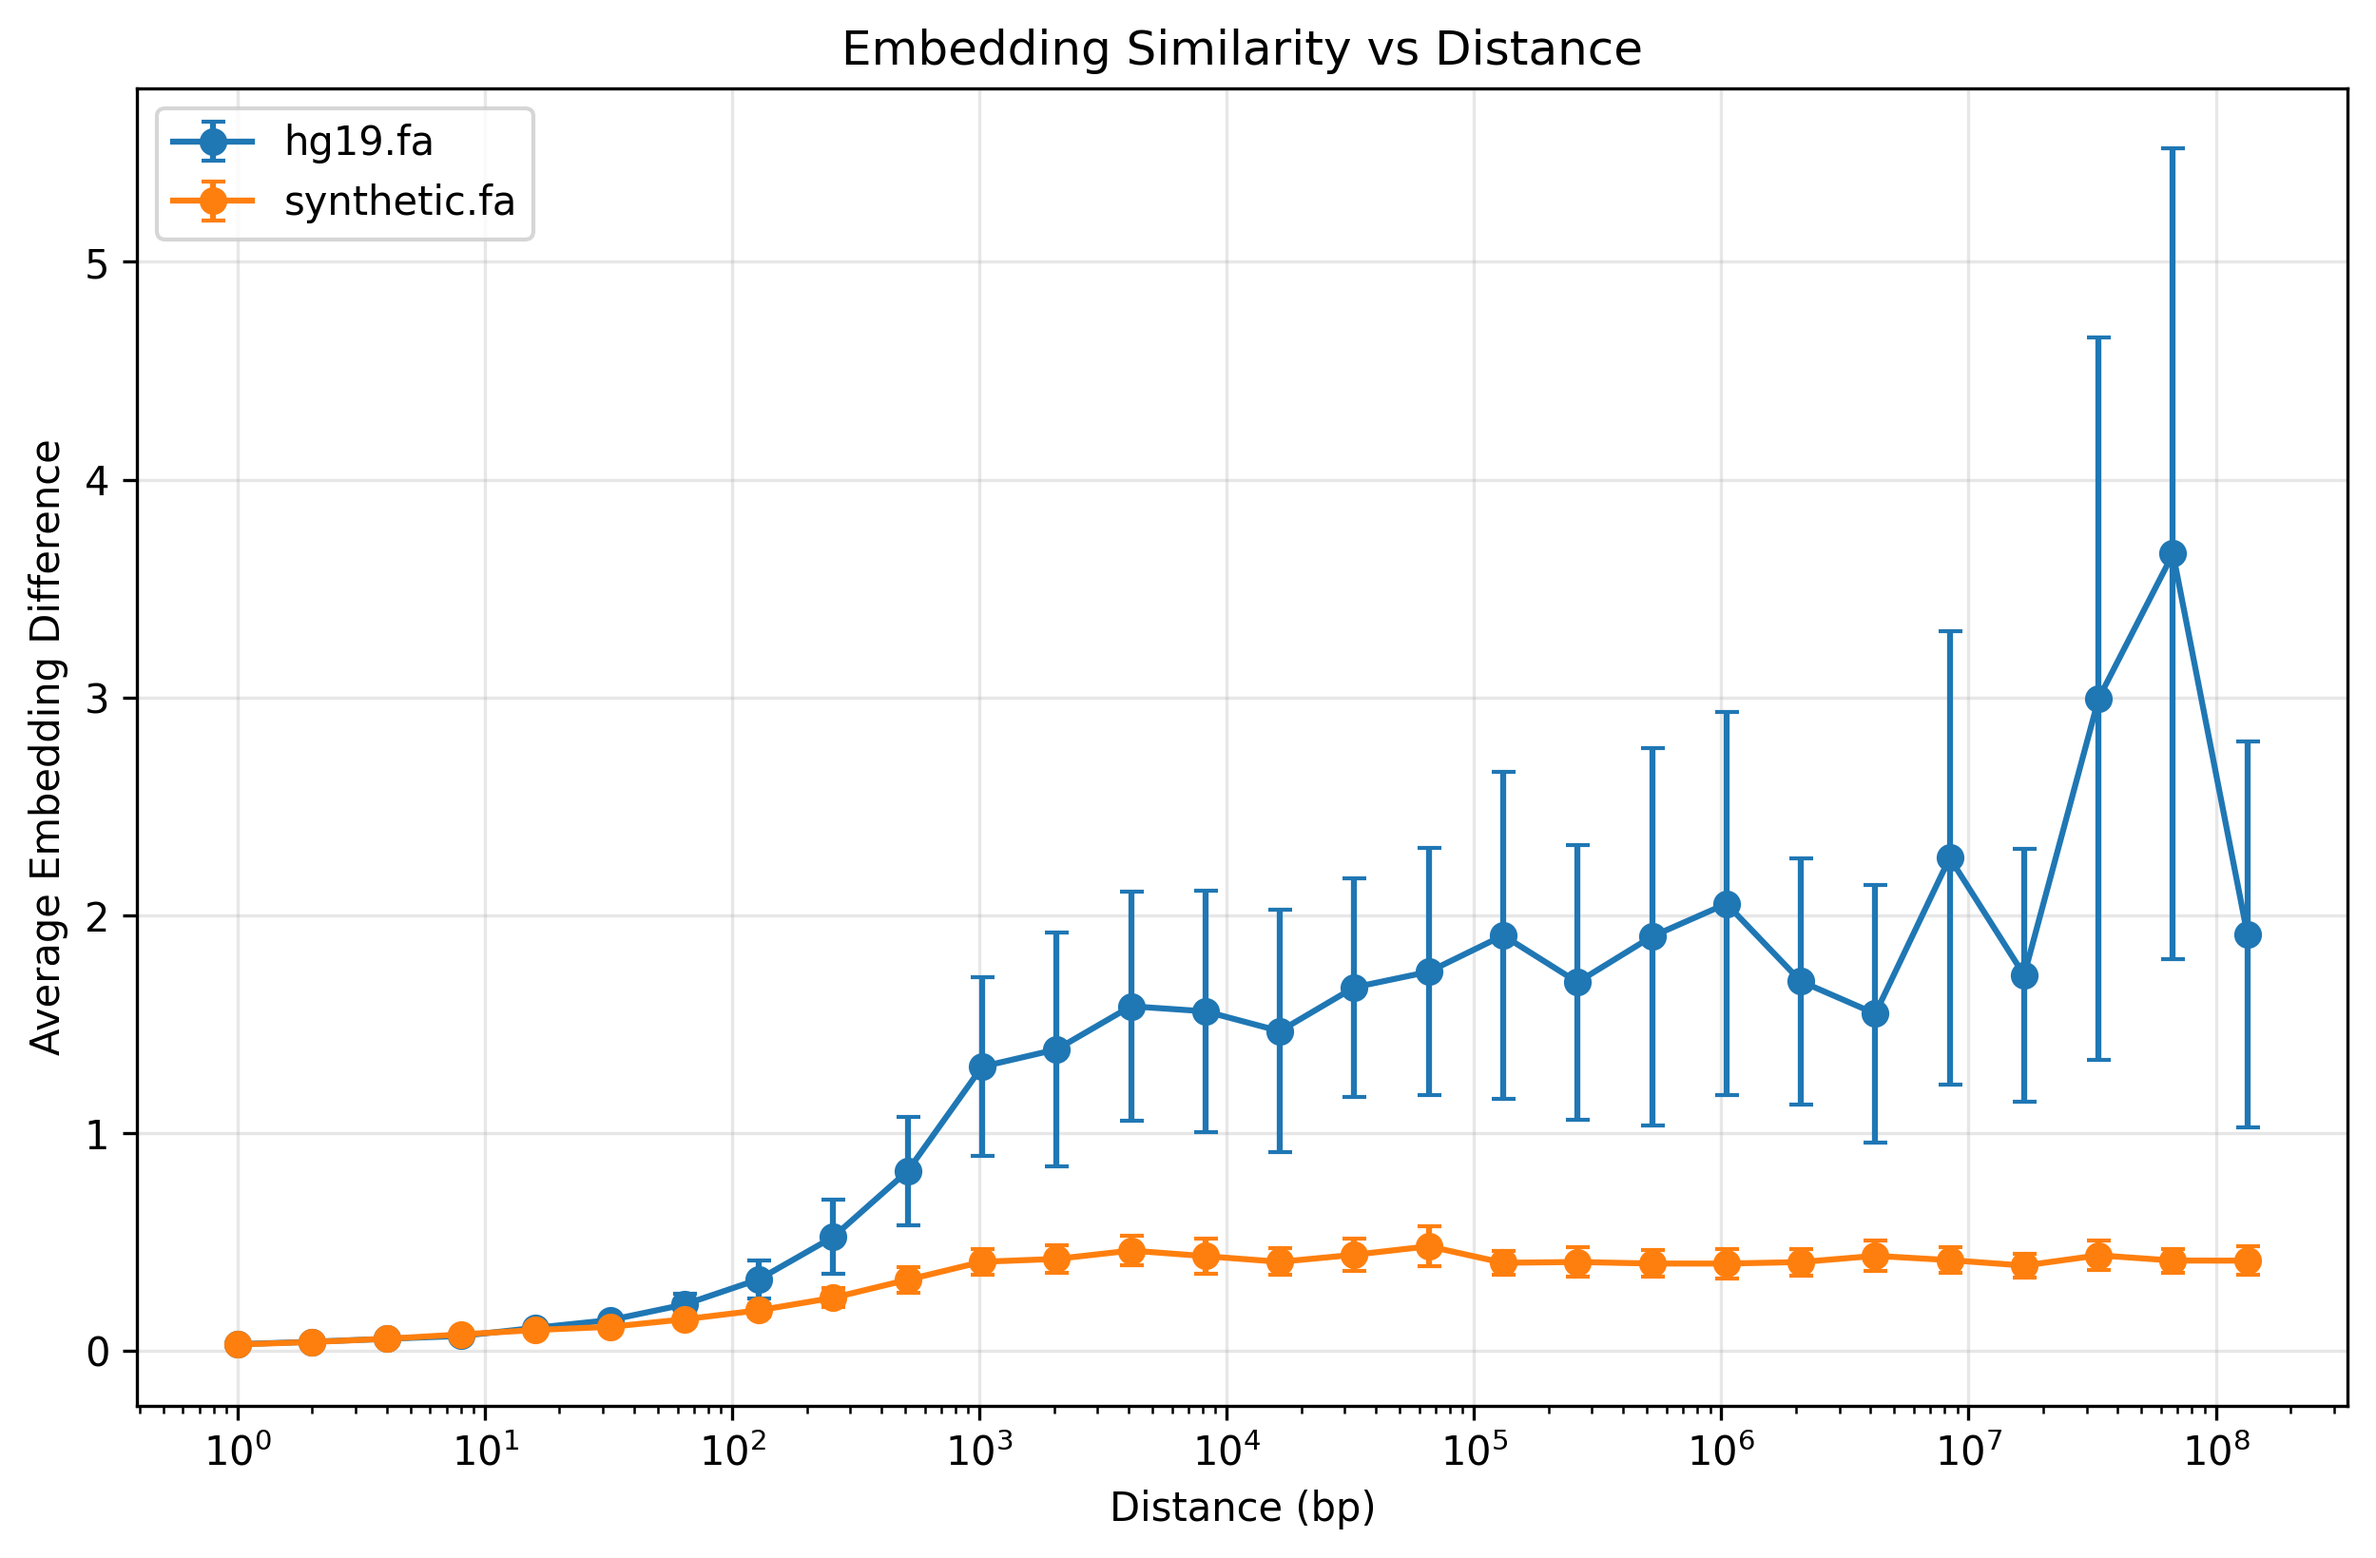
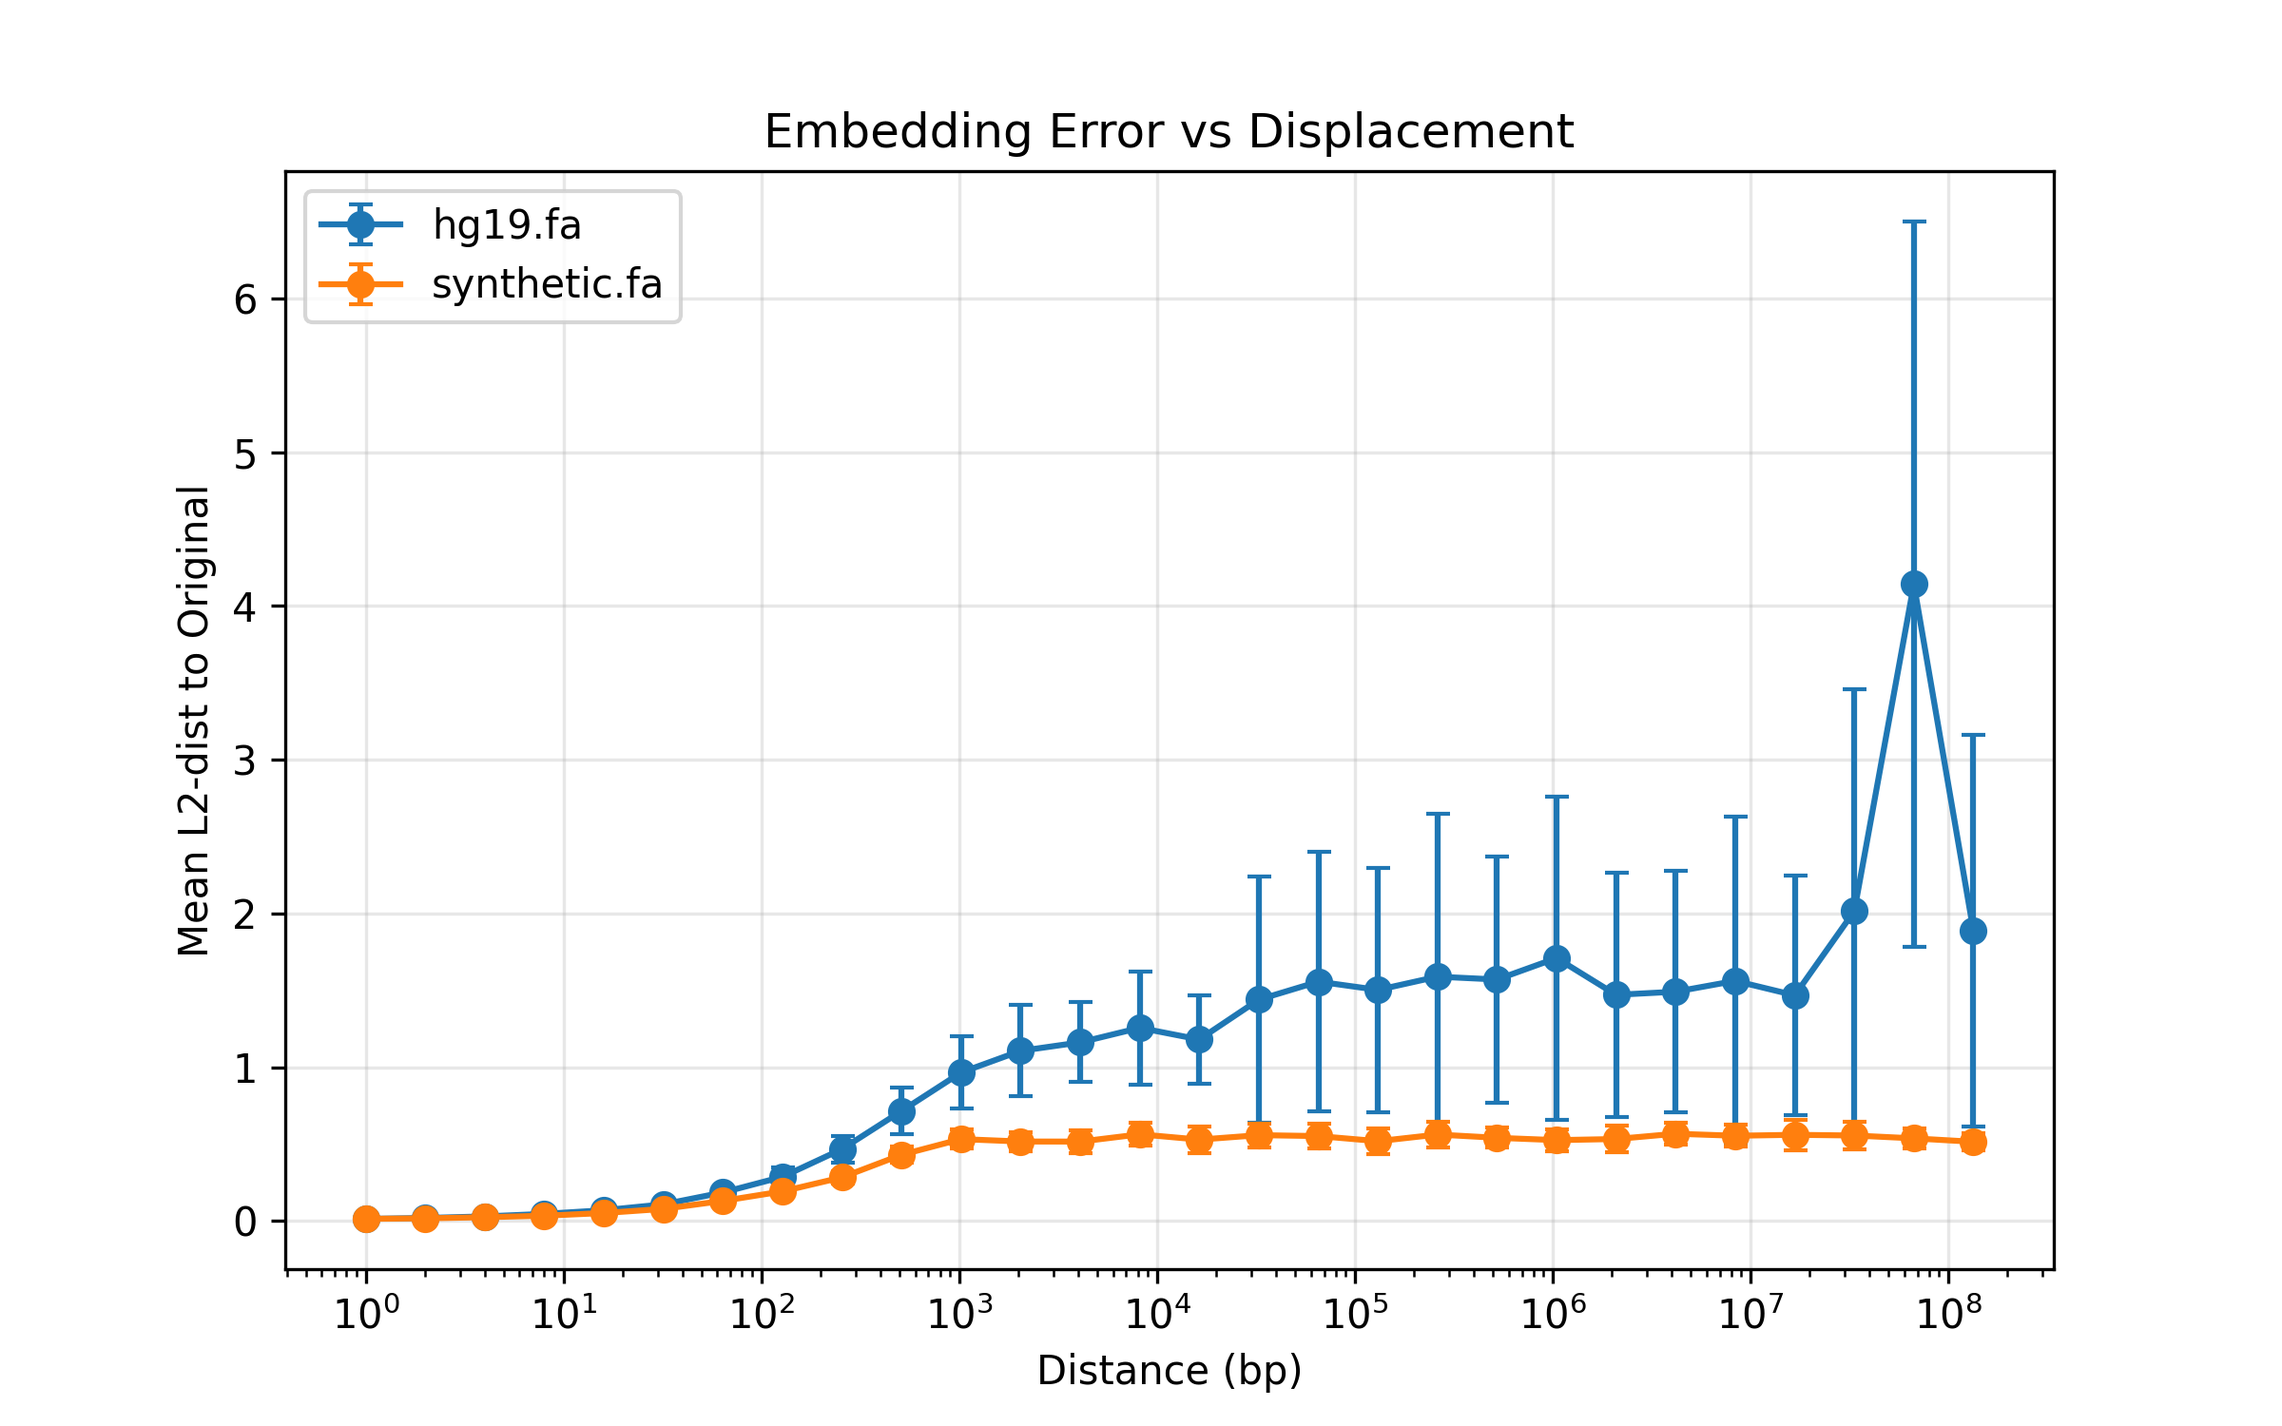
swt: combo plot

diff --git a/src/analysis/embed_tests/swt.py b/src/analysis/embed_tests/swt.py
@@ -1,4 +1,3 @@
-import argparse
 import os
 import subprocess
 import tempfile
@@ -8,11 +7,12 @@ from random import random
 
 import matplotlib.pyplot as plt
 import numpy as np
+from numpy.typing import NDArray
 
 from giggleml.data_wrangling.interval_dataset import MemoryIntervalDataset
 from giggleml.embed_gen.embed_pipeline import DirectPipeline
 from giggleml.models.hyena_dna import HyenaDNA
-from giggleml.utils.types import GenomicInterval
+from giggleml.utils.types import GenomicInterval, PathLike
 
 
 def _mean(items: Iterable[float]) -> float:
@@ -28,18 +28,32 @@ def _err(items: Iterable[float]) -> float:
     )
 
 
-def _samples(ticks: list[int], interval_size: int):
+def _samples(ticks: list[int], origin_size: int, others_size: int | None = None):
+    others_size = others_size or origin_size
     chr = "chr1"
-    start = int(random() * 1e8)
-    yield (chr, start, start + interval_size)  # origin
+    midpoint = int(random() * 1e8)
+    yield (chr, midpoint - origin_size // 2, midpoint + origin_size // 2)  # origin
 
     for tick in ticks:
-        yield (chr, start + tick, start + tick + interval_size)
+        yield (
+            chr,
+            midpoint + tick - others_size // 2,
+            midpoint + tick + others_size // 2,
+        )
+
+
+def _dist(x: NDArray, y: NDArray) -> float:
+    # cosine_similarity
+    # return np.dot(x, y) / np.linalg.norm(x) / np.linalg.norm(y)
+
+    # euclidean
+    return np.linalg.norm(y - x).item()
 
 
 def overlap_plot(
+    ax,
     ticks: list[int],
-    interval_size: int = 1000,
+    interval_size: tuple[int, int],
     trials: int = 50,
 ):
     def _write_bed(origin: GenomicInterval, others: Sequence[GenomicInterval]):
@@ -57,7 +71,7 @@ def overlap_plot(
         bed = None
 
         try:
-            samples = list(_samples(ticks, interval_size))
+            samples = list(_samples(ticks, *interval_size))
             origin = samples[0]
             others = samples[1:]
             bed = _write_bed(origin, others)
@@ -78,9 +92,7 @@ def overlap_plot(
     averages = [_mean(y) for y in zip(*samples)]
     errs = [_err(y) for y in zip(*samples)]
 
-    plt.figure(figsize=(10, 6))
-
-    plt.errorbar(
+    ax.errorbar(
         ticks,
         averages,
         yerr=errs,
@@ -89,25 +101,26 @@ def overlap_plot(
         capthick=1,
     )
 
-    plt.xlabel("Distance (bp)")
-    plt.ylabel("Overlap")
-    plt.title("(Bedtools) overlap")
-    plt.grid(True, alpha=0.3)
-    return plt
+    ax.set_xlabel("Distance (bp)")
+    ax.set_ylabel("(Bedtools) Overlap")
+    ax.set_title("(Bedtools) Overlap")
+    ax.grid(True, alpha=0.3)
+    return ax
 
 
 def swt(
-    fastas: list[os.PathLike],
+    ax,
+    fastas: list[PathLike],
     ticks: list[int],
-    interval_size: int = 1000,
+    interval_size: tuple[int, int],
     trials: int = 50,
-    log_xscale: bool = True,
+    log_xscale: bool = False,
 ):
     def _trial(fasta: Path):
-        samples = list(_samples(ticks, interval_size))
+        samples = list(_samples(ticks, *interval_size))
         dataset = MemoryIntervalDataset(samples, fasta)
-        embeds = DirectPipeline(HyenaDNA("1k"), 5, 10).embed(dataset).detach().numpy()
-        diffs = [np.linalg.norm(item - embeds[0]) for item in embeds]
+        embeds = DirectPipeline(HyenaDNA("16k"), 5, 10).embed(dataset).detach().numpy()
+        diffs = [_dist(item, embeds[0]) for item in embeds]
         return diffs[1:]  # skip the extra item we added
 
     def _results(fasta: Path) -> tuple[list[int], list[float], list[float]]:
@@ -118,10 +131,8 @@ def swt(
 
     data = [_results(Path(fasta)) for fasta in fastas]
 
-    plt.figure(figsize=(10, 6))
-
     for fasta, (ticks, averages, errs) in zip(fastas, data):
-        plt.errorbar(
+        ax.errorbar(
             ticks,
             averages,
             yerr=errs,
@@ -132,70 +143,66 @@ def swt(
         )
 
     if log_xscale:
-        plt.xscale("log")
-    plt.xlabel("Distance (bp)")
-    plt.ylabel("Average Embedding Error")
-    plt.title("Embedding Similarity vs Distance")
-    plt.legend()
-    plt.grid(True, alpha=0.3)
-    return plt
+        ax.set_xscale("log")
+    ax.set_xlabel("Distance (bp)")
+    ax.set_ylabel("Mean L2-dist to Original")
+    ax.set_title("Embedding Error vs Displacement")
+    ax.legend()
+    ax.grid(True, alpha=0.3)
+    return ax
+
+
+def all_plot(
+    fastas: list[PathLike],
+    origin_size: int,
+    other_sizes: tuple[int, ...],
+    trials: int = 50,
+):
+    fig, axes = plt.subplots(nrows=2, ncols=len(other_sizes), figsize=(12, 10))
+
+    for i, size in enumerate(other_sizes):
+        window = (size + origin_size) // 2
+        ticks = list(range(-window, window + 1, window // 10))
+
+        # top row
+        ax = overlap_plot(axes[0, i], ticks, (origin_size, size), trials)
+        ax.set_title(f"{origin_size} by {size}")
+
+        # bottom row
+        ax = swt(axes[1, i], fastas, ticks, (origin_size, size), trials)
+        ax.set_title(f"{origin_size} by {size}")
+        ax.set_ylim(-1, 6)
+        ax.invert_yaxis()
+
+    fig.suptitle("Sliding Window Test")
+    plt.tight_layout()
+    return fig
 
 
 def main():
-    parser = argparse.ArgumentParser(description="Sliding Window Test")
-    parser.add_argument("fastas", nargs="+", help="Path(s) to FASTA files to analyze")
-    parser.add_argument(
-        "-o", "--output", required=True, help="Output path for the plot"
+    # combo plot
+    fig = all_plot(
+        ["data/hg/hg19.fa", "data/hg/synthetic.fa"],
+        1000,
+        (10, 100, 1000, 10000),
+        trials=50,
     )
-    parser.add_argument(
-        "-t",
-        "--trials",
-        type=int,
-        default=50,
-        help="Number of trials to run (default: 50)",
-    )
-    parser.add_argument(
-        "-m",
-        "--mode",
-        choices=["short", "long", "overlap"],
-        default="short",
-        help="Analysis mode: 'short' for short-range or 'long' for long-range (default: short)",
-    )
+    fig.savefig("experiments/swt_combo.png", dpi=300)
+    fig.show()
 
-    args = parser.parse_args()
-
-    interval_size = 100
+    # long
+    fig, ax = plt.subplots(figsize=(8, 5))
     long_ticks = [2**x for x in range(28)]
-    short_ticks = [
-        x for x in range(-interval_size * 2, interval_size * 2 + 1, interval_size // 10)
-    ]
-
-    if args.mode == "short":
-        plt = swt(
-            args.fastas,
-            short_ticks,
-            interval_size,
-            args.trials,
-            log_xscale=False,
-        )
-        plt.title("Short range")
-    elif args.mode == "long":
-        plt = swt(
-            args.fastas,
-            long_ticks,
-            interval_size,
-            args.trials,
-        )
-        plt.title("Long range")
-    elif args.mode == "overlap":
-        plt = overlap_plot(short_ticks, interval_size, args.trials)
-    else:
-        raise RuntimeError("unknown mode")
-
-    plt.savefig(args.output, dpi=300, bbox_inches="tight")
-    plt.close()
-
-    print(f"Plot saved to {args.output}")
+    swt(
+        ax,
+        ["data/hg/hg19.fa", "data/hg/synthetic.fa"],
+        long_ticks,
+        (1000, 1000),
+        trials=50,
+        log_xscale=True,
+    )
+    fig.savefig("experiments/swt_long_range.png", dpi=300)
+    fig.show()
 
 
 if __name__ == "__main__":

diff --git a/src/giggleml/utils/types.py b/src/giggleml/utils/types.py
@@ -1,4 +1,5 @@
 from collections.abc import Iterable, Sized
+from pathlib import Path
 from typing import Any, Protocol, TypeVar
 
 import numpy as np
@@ -16,6 +17,10 @@ def lazy[T](cls: T) -> T:
     it to be passed through pickling barriers without incurring the tax.
     """
     return cls
+
+
+# why doesn't python's PathLike look more like this?
+PathLike = Path | str
 
 
 TCo = TypeVar("T_co", covariant=True)
